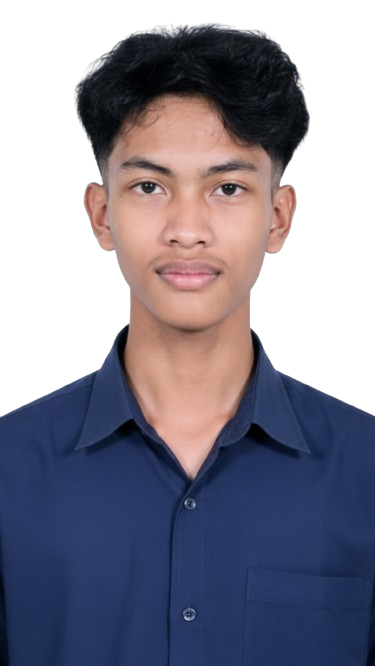
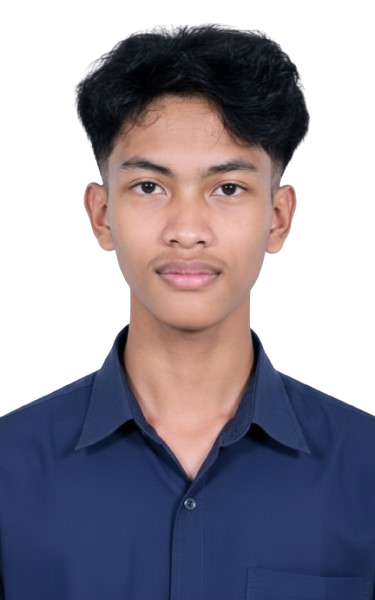
feat: update HeroNavbar and MentorSection for improved responsiveness and layout

diff --git a/src/components/hero/hero-navbar.tsx b/src/components/hero/hero-navbar.tsx
@@ -132,9 +132,11 @@ export function HeroNavbar() {
         </ul>
 
         <div className="flex items-center gap-3">
+          {/* CTA di navbar cuma tampil di layar lg ke atas. Di mobile, CTA-nya dipindah ke dalam panel hamburger menu. */}
           <AnimatePresence>
             {hasScrolledPastHero && !isMenuOpen ? (
               <motion.div
+                className="hidden lg:block"
                 initial={reduceMotion ? false : { opacity: 0, y: -8, scale: 0.95 }}
                 animate={{ opacity: 1, y: 0, scale: 1 }}
                 exit={{ opacity: 0, y: -8, scale: 0.95 }}
@@ -198,6 +200,22 @@ export function HeroNavbar() {
                   </motion.li>
                 ))}
               </ul>
+
+              {/* Tombol daftar dipindah ke sini: cuma muncul di dalam menu mobile, dan cuma kalau udah scroll ngelewatin hero */}
+              {hasScrolledPastHero ? (
+                <motion.div
+                  initial={reduceMotion ? false : { opacity: 0, y: 24 }}
+                  animate={{ opacity: 1, y: 0 }}
+                  transition={{
+                    duration: reduceMotion ? 0 : 0.55,
+                    delay: reduceMotion ? 0 : 0.18 + NAV_LINKS.length * 0.055,
+                    ease: [0.16, 1, 0.3, 1],
+                  }}
+                  className="ml-auto w-fit"
+                >
+                  <RegistrationCta href="https://bncc.in/REGISTGITREADY2.0" onDark />
+                </motion.div>
+              ) : null}
             </div>
           </motion.div>
         ) : null}

diff --git a/src/components/mentor/mentor-section.tsx b/src/components/mentor/mentor-section.tsx
@@ -151,7 +151,7 @@ function MentorRow({ mentor, index, open, onToggle }: { mentor: Mentor; index: n
                 ) : null}
               </div>
 
-              <div className="group/mentor-photo relative order-1 flex aspect-[4/3] items-center justify-center overflow-hidden border border-blue-100/15 bg-[#061225] lg:order-2 lg:aspect-[4/5]">
+              <div className="group/mentor-photo relative order-1 flex aspect-[3/4] items-center justify-center overflow-hidden border border-blue-100/15 bg-[#061225] sm:aspect-[4/5] lg:order-2">
                 {mentor.imageSrc ? (
                   <>
                     <Image
@@ -159,7 +159,7 @@ function MentorRow({ mentor, index, open, onToggle }: { mentor: Mentor; index: n
                       alt={mentor.name}
                       width={720}
                       height={900}
-                      className="h-full w-full scale-100 object-cover object-top transition-[filter,transform] duration-700 ease-[cubic-bezier(0.16,1,0.3,1)] group-hover/mentor-photo:scale-[1.15] group-hover/mentor-photo:grayscale motion-reduce:transition-none"
+                      className="h-full w-full scale-100 object-cover object-[center_30%] transition-[filter,transform] duration-700 ease-[cubic-bezier(0.16,1,0.3,1)] group-hover/mentor-photo:scale-[1.15] group-hover/mentor-photo:grayscale motion-reduce:transition-none"
                     />
                     {linkedinProfile ? (
                       <a
